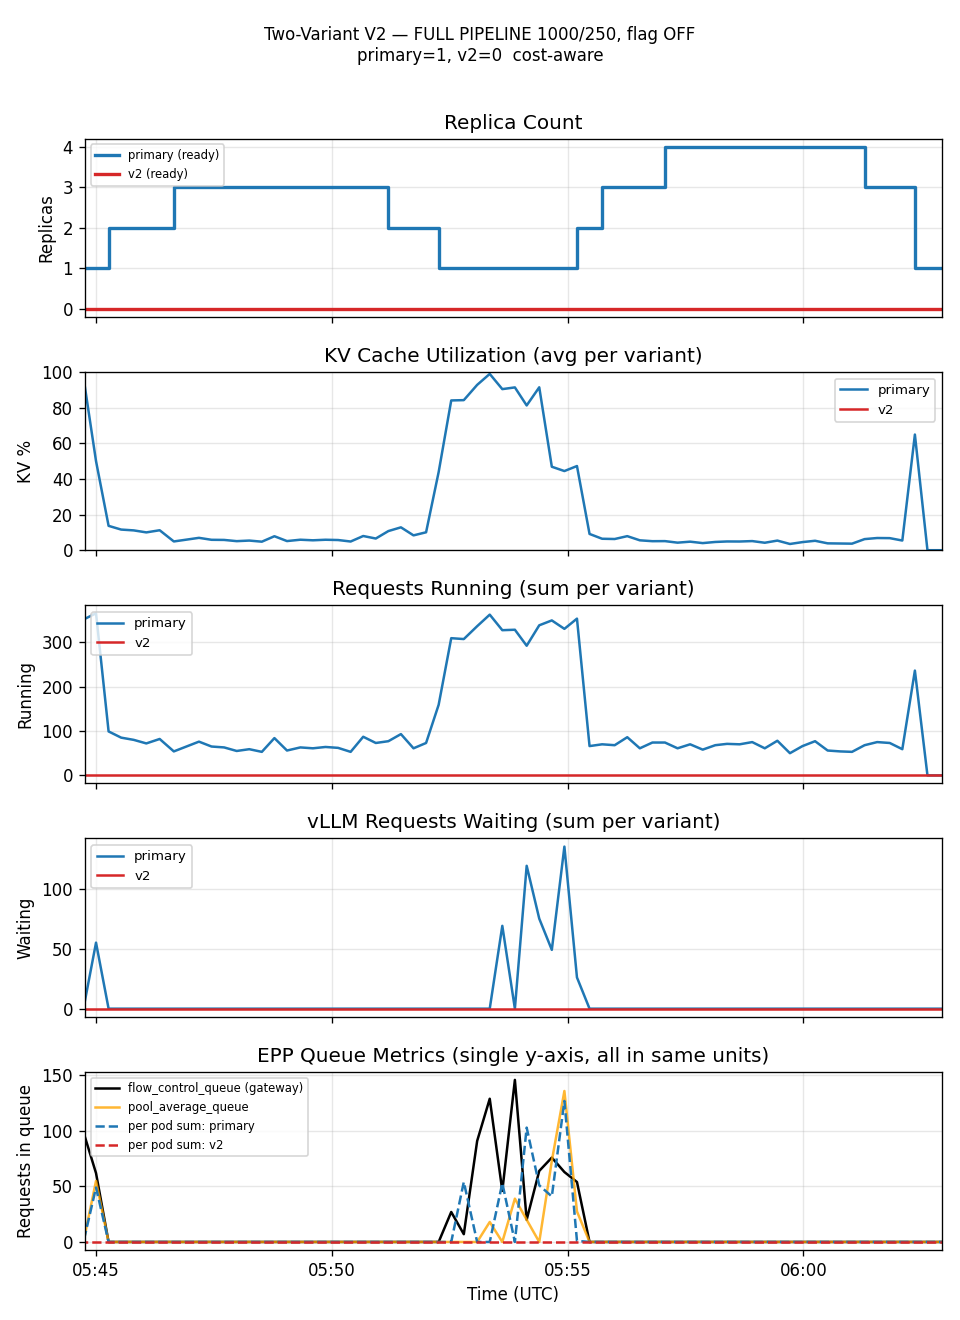
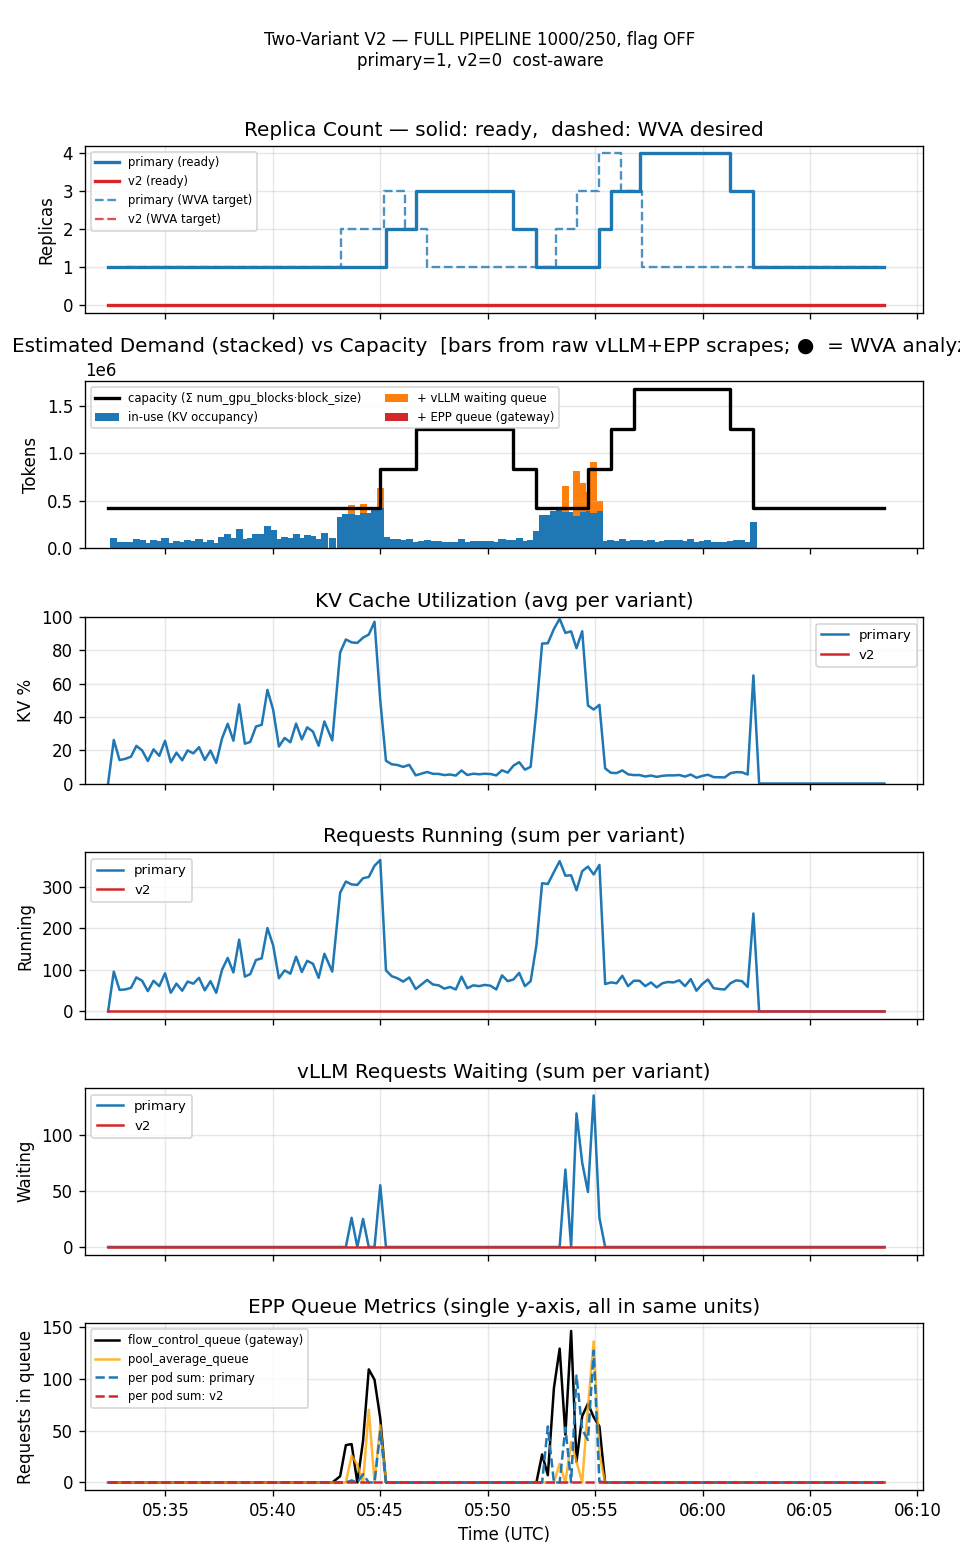
docs(comparison): restore WVA-desired overlay and demand panel for flag-OFF plot
The flag-OFF run's wva_target_timeseries.json and
capacity_demand_estimate.json were never generated (the former reads
live kubectl logs, and by the time it would have run the controller
had already been restarted for the next leg). Regenerated both from
the run's saved raw scrapes / full controller log dump so the two
plots have full parity.

diff --git a/comparison-1000x250-rateanchoredk2-20260731/comparison.md b/comparison-1000x250-rateanchoredk2-20260731/comparison.md
@@ -79,7 +79,14 @@ Same shape: one mid-run collapse-to-1 (peak 3 at 05:46:39 → 1 by 05:52:16), re
 ## Graphs
 
 Both plots are single-variant runs (no secondary variant deployed) — the flat red "v2" lines in
-each panel are inactive/always-zero, not a data gap.
+each panel are inactive/always-zero, not a data gap. The flag-OFF run's `wva_target_timeseries.json`
+(WVA-desired overlay) and `capacity_demand_estimate.json` (demand-vs-capacity panel) weren't
+generated at the time — `dump_wva_target_timeseries.py` reads live via `kubectl logs`, and by the
+time it would have run the controller had already been restarted for the next leg, past the
+window. Regenerated both after the fact: the demand-estimate script works from the run's saved
+raw vLLM/EPP scrapes (no controller-log dependency), and the WVA-desired series was rebuilt by
+replaying the same "Applied saturation decision" pattern against the full controller log already
+saved in `results/.../wva-controller.log`.
 
 ### Flag ON — ramps to 5, one sharp collapse-to-1, recovers to 3
 
@@ -99,6 +106,11 @@ Same shape: `1→2→3` early, drops to 1 as load between stages eases, then cli
 utilization saturates again (~100%) with vLLM waiting queue peaking near 140 and EPP flow-control
 queue peaking near 150 — both higher peaks than the ON run's corresponding spike. Holds at 3-4
 through the rest of the sustained stage before the end-of-run drain to 1.
+
+Worth noting: the WVA-desired dashed line visibly **leads** the ready-replica solid line at every
+step here (e.g. desired jumps to 3 at ~05:44 before ready follows at ~05:46; desired jumps to 4 at
+~05:55 before ready catches up seconds later) — that lag is pod-startup time, not a control-loop
+delay, and it's present in both legs.
 
 ## Reading these numbers
 
